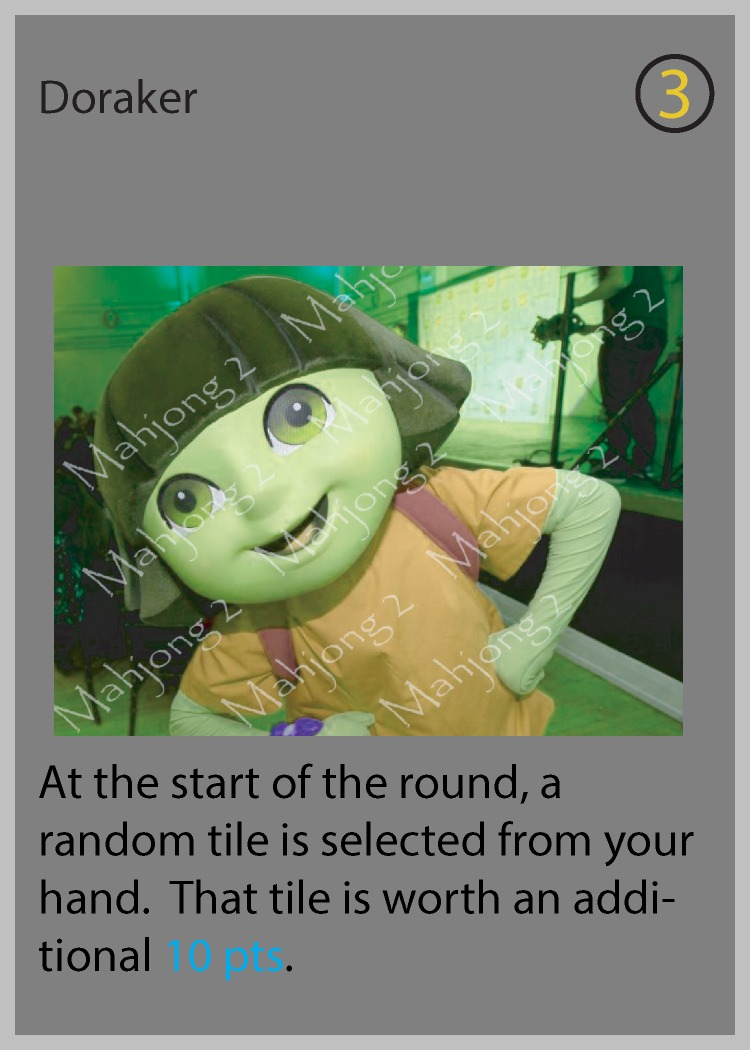
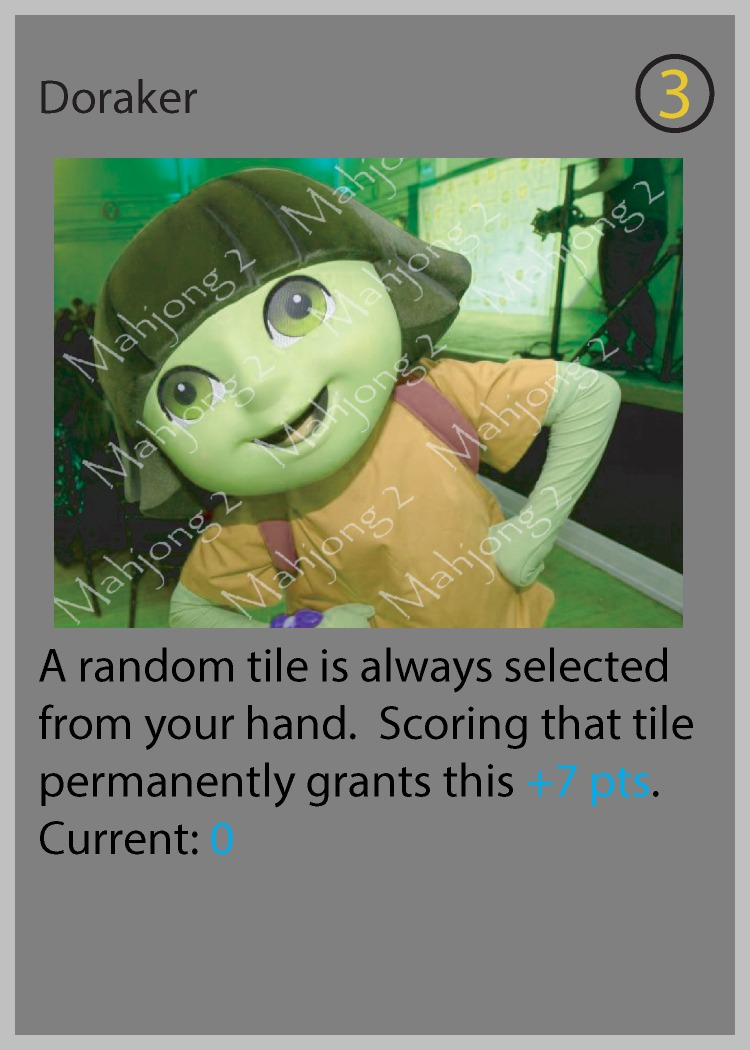
patch 0.14

diff --git a/mahjongkers.py b/mahjongkers.py
@@ -1073,8 +1073,8 @@ class Magellker(Mahjongker):
     name = "Magellker"
     description = "You can form a sequence with the winds. They are ordered dong (E) -> xi (S) -> nan (W) -> bei (N)"
     priority = 6 
-    cost = UNCOMMON_MAHJONGKER_COST
-    sell_value = UNCOMMON_MAHJONGKER_SELL_VALUE
+    cost = COMMON_MAHJONGKER_COST
+    sell_value = COMMON_MAHJONGKER_SELL_VALUE
     img_src = "/jongker/magellker.jpg"
 
     def eval_score(self, my_mahjongkers):
@@ -1239,7 +1239,7 @@ class Boomerangker(Mahjongker):
 # Doraker
 class Doraker(Mahjongker):
     name = "Doraker"
-    description = "At the start of the round, a random tile from your hand is selected.  This mahjongker permanently gains +15 pts if you score this tile this round. Currently: 0"
+    description = "A random tile is always selected from your hand. Scoring that tile permanently grants this +7 pts. Currently: 0"
     priority = 6
     cost = COMMON_MAHJONGKER_COST
     sell_value = COMMON_MAHJONGKER_SELL_VALUE
@@ -1713,7 +1713,7 @@ class Chairker(Mahjongker):
 # AngelInvesker
 class AngelInvesker(Mahjongker):
     name = "AngelInvesker"
-    description = "At the start of the round, choose a player to give $3 to. Any time that player earns money this round, you also gain $2."
+    description = "Each round, choose a player to give $2 to. Any time that player earns money this round, you also gain $1."
     priority = 6 
     cost = COMMON_MAHJONGKER_COST
     sell_value = COMMON_MAHJONGKER_SELL_VALUE
@@ -2929,7 +2929,7 @@ class HighNoonker(Mahjongker):
 # Stevenker
 class Stevenker(Mahjongker):
     name = "Stevenker"
-    description = "You may self reveal a valid quad of all even tiles of the same suit"
+    description = "You may self reveal a valid quad of of any combination of even tiles of the same suit"
     priority = 6 
     cost = COMMON_MAHJONGKER_COST
     sell_value = COMMON_MAHJONGKER_SELL_VALUE
@@ -2941,7 +2941,7 @@ class Stevenker(Mahjongker):
 # BigkerTheCat
 class BigkerTheCat(Mahjongker):
     name = "BigkerTheCat"
-    description = "You may self reveal a valid quad of all tiles > rank 5 of the same suit"
+    description = "You may self reveal a valid quad of any combination of tiles > rank 5 of the same suit"
     priority = 6 
     cost = COMMON_MAHJONGKER_COST
     sell_value = COMMON_MAHJONGKER_SELL_VALUE
@@ -3056,6 +3056,114 @@ class Uniqler(Mahjongker):
                     unique_tiles.append(tile)
         return (len(unique_tiles) * 10, 0)
 
+# Loanker
+class Loanker(Mahjongker):
+    name = "Loanker"
+    description = "Immediately get 13 dollars. Every time you would gain money, gain $1 less. You cannot remove this mahjongker."
+    priority = 6 
+    cost = COMMON_MAHJONGKER_COST
+    sell_value = COMMON_MAHJONGKER_SELL_VALUE
+    img_src = "/jongker/loanker.jpg"
+
+    def eval_score(self, my_mahjongkers):
+        return (0, 0)
+
+# MusicalChairker
+class MusicalChairker(Mahjongker):
+    name = "MusicalChairker"
+    description = "When you score another player's seat wind, take $3 from them."
+    priority = 6 
+    cost = COMMON_MAHJONGKER_COST
+    sell_value = COMMON_MAHJONGKER_SELL_VALUE
+    img_src = "/jongker/musicalchairker.jpg"
+
+    def eval_score(self, my_mahjongkers):
+        return (0, 0)
+
+# Worshipker
+class Worshipker(Mahjongker):
+    name = "Worshipker"
+    description = "Honor tiles are worth 0 pts. In your scored hand, for each honor meld, score your other melds again."
+    priority = 5 
+    cost = RARE_MAHJONGKER_COST
+    sell_value = RARE_MAHJONGKER_SELL_VALUE
+    img_src = "/jongker/worshipker.jpg"
+
+    def eval_score(self, my_mahjongkers, hand):
+        # rank_total = 0
+        # for meld in hand.melds:
+        #     for tile in meld.tiles:
+        #         if tile.suit != "wind" and tile.suit != "dragon" and tile.suit != "special":
+        #             rank_total += int(tile.rank)
+        #         else:
+        #             rank_total += 1
+        # if (rank_total >= 100):
+        #     return (100, 0)
+        # else:
+        return (0, 0)           
+
+# Thermomeker
+class Thermomeker(Mahjongker):
+    name = "Thermomeker"
+    description = "If you have scored at least 5 fever melds before you mahjong, +30 pts"
+    priority = 6 
+    cost = COMMON_MAHJONGKER_COST
+    sell_value = COMMON_MAHJONGKER_SELL_VALUE
+    img_src = "/jongker/thermomeker.jpg"
+
+    def eval_score(self, my_mahjongkers):
+        return (0, 0)
+
+# Suitker
+class Suitker(Mahjongker):
+    name = "Suitker"
+    description = "Gain a free Re: Suitbaru at the start of each of your turns.  If your scored hand has a common suit, gain +120 pts."
+    priority = 5 
+    cost = RARE_MAHJONGKER_COST
+    sell_value = RARE_MAHJONGKER_SELL_VALUE
+    img_src = "/jongker/suitker.jpg"
+
+    def eval_score(self, my_mahjongkers, hand):
+        if hand.is_flush:
+            return (120, 0)
+        return (0, 0)
+
+# Mimicgker
+class Mimicgker(Mahjongker):
+    name = "Mimicgker"
+    description = "Round start: choose a player. When you or that player use an item, the other player may also use that item."
+    priority = 6 
+    cost = UNCOMMON_MAHJONGKER_COST
+    sell_value = UNCOMMON_MAHJONGKER_SELL_VALUE
+    img_src = "/jongker/mimicgker.jpg"
+
+    def eval_score(self, my_mahjongkers):
+        return (0, 0)
+
+# Reuseker
+class Reuseker(Mahjongker):
+    name = "Reuseker"
+    description = "When you lock in a meld, create a copy of one of the meld's tiles."
+    priority = 6 
+    cost = COMMON_MAHJONGKER_COST
+    sell_value = COMMON_MAHJONGKER_SELL_VALUE
+    img_src = "/jongker/reuseker.jpg"
+
+    def eval_score(self, my_mahjongkers):
+        return (0, 0)
+
+# Reduceker
+class Reduceker(Mahjongker):
+    name = "Reduceker"
+    description = "When you create a fever meld, you may keep one of the meld's tiles."
+    priority = 6 
+    cost = COMMON_MAHJONGKER_COST
+    sell_value = COMMON_MAHJONGKER_SELL_VALUE
+    img_src = "/jongker/reduceker.jpg"
+
+    def eval_score(self, my_mahjongkers):
+        return (0, 0)
+
 # --------------------------------------------------------------------------------------
 # MAHJONGKER LIST
 # --------------------------------------------------------------------------------------
@@ -3115,7 +3223,7 @@ all_mahjongkers_list.append(Compensaker())
 all_mahjongkers_list.append(Gronkowsker())
 all_mahjongkers_list.append(Dumpsker())
 all_mahjongkers_list.append(Copycatker())
-all_mahjongkers_list.append(Boomerangker())
+# all_mahjongkers_list.append(Boomerangker())
 all_mahjongkers_list.append(Doraker())
 all_mahjongkers_list.append(AllforOneker())
 all_mahjongkers_list.append(OneforAllker())
@@ -3156,7 +3264,7 @@ all_mahjongkers_list.append(AngelInvesker())
 all_mahjongkers_list.append(Huntker())
 # all_mahjongkers_list.append(Gourmetker())
 # all_mahjongkers_list.append(Specialker())
-all_mahjongkers_list.append(Spoilker())
+# all_mahjongkers_list.append(Spoilker())
 all_mahjongkers_list.append(Harbingker())
 all_mahjongkers_list.append(GoGoGaker())
 all_mahjongkers_list.append(DejaVuker())
@@ -3241,6 +3349,13 @@ all_mahjongkers_list.append(TheHundredker())
 all_mahjongkers_list.append(Obelisker())
 all_mahjongkers_list.append(Reservaker())
 all_mahjongkers_list.append(Uniqler())
+all_mahjongkers_list.append(Loanker())
+all_mahjongkers_list.append(MusicalChairker())
+all_mahjongkers_list.append(Worshipker())
+all_mahjongkers_list.append(Thermomeker())
+all_mahjongkers_list.append(Suitker())
+all_mahjongkers_list.append(Reuseker())
+all_mahjongkers_list.append(Reduceker())
 
 # --------------------------------------------------------------------------------------
 # MAHJONGKER DICT
@@ -3301,7 +3416,7 @@ all_mahjongkers_dict["compensaker"] = Compensaker()
 all_mahjongkers_dict["gronkowsker"] = Gronkowsker()
 all_mahjongkers_dict["dumpsker"] = Dumpsker()
 all_mahjongkers_dict["copycatker"] = Copycatker()
-all_mahjongkers_dict["boomerangker"] = Boomerangker()
+# all_mahjongkers_dict["boomerangker"] = Boomerangker()
 all_mahjongkers_dict["doraker"] = Doraker()
 all_mahjongkers_dict["allforoneker"] = AllforOneker()
 all_mahjongkers_dict["oneforallker"] = OneforAllker()
@@ -3342,7 +3457,7 @@ all_mahjongkers_dict["angelinvesker"] = AngelInvesker()
 all_mahjongkers_dict["huntker"] = Huntker()
 # all_mahjongkers_dict["gourmetker"] = Gourmetker()
 # all_mahjongkers_dict["specialker"] = Specialker()
-all_mahjongkers_dict["spoilker"] = Spoilker()
+# all_mahjongkers_dict["spoilker"] = Spoilker()
 all_mahjongkers_dict["harbingker"] = Harbingker()
 all_mahjongkers_dict["gogogaker"] = GoGoGaker()
 all_mahjongkers_dict["dejavuker"] = DejaVuker()
@@ -3427,7 +3542,13 @@ all_mahjongkers_dict["thehundredker"] = TheHundredker()
 all_mahjongkers_dict["obelisker"] = Obelisker()
 all_mahjongkers_dict["reservaker"] = Reservaker()
 all_mahjongkers_dict["uniqler"] = Uniqler()
-
+all_mahjongkers_dict["loanker"] = Loanker()
+all_mahjongkers_dict["musicalchairker"] = MusicalChairker()
+all_mahjongkers_dict["worshipker"] = Worshipker()
+all_mahjongkers_dict["thermomeker"] = Thermomeker()
+all_mahjongkers_dict["suitker"] = Suitker()
+all_mahjongkers_dict["reuseker"] = Reuseker()
+all_mahjongkers_dict["reduceker"] = Reduceker()
 
 # ----------------------------------------------
 
@@ -3526,3 +3647,5 @@ initial_mahjongkers_list.append(WageGapker())
 initial_mahjongkers_list.append(Phoenixker())
 initial_mahjongkers_list.append(Obelisker())
 initial_mahjongkers_list.append(Reservaker())
+initial_mahjongkers_list.append(MusicalChairker())
+initial_mahjongkers_list.append(Thermomeker())

diff --git a/main.py b/main.py
@@ -969,7 +969,7 @@ def main(page: ft.Page):
             if mahjongker.name == "Doraker":
                 doraker = mahjongker
                 break
-        doraker.point_value = doraker.point_value + 15
+        doraker.point_value = doraker.point_value + 7
         doraker_text.value = f"Doraker value: {doraker.point_value}"
         page.update()
 
@@ -980,7 +980,7 @@ def main(page: ft.Page):
             if mahjongker.name == "Doraker":
                 doraker = mahjongker
                 break
-        doraker.point_value = max(0, doraker.point_value - 15)
+        doraker.point_value = max(0, doraker.point_value - 7)
         doraker_text.value = f"Doraker value: {doraker.point_value}"
         page.update()
 
@@ -4891,13 +4891,13 @@ def main(page: ft.Page):
                 # trigram_info_column,
                 # trigram_pack_button,
                 # ft.Divider(),
-                ft.Row([
-                    ft.Text("Hand Size Upgrade (+1)", size=20, color=ft.colors.WHITE),
-                    ]),
-                ft.Row([
-                    hand_size_upgrade_button
-                    ]),
-                ft.Divider(),
+                # ft.Row([
+                #     ft.Text("Hand Size Upgrade (+1)", size=20, color=ft.colors.WHITE),
+                #     ]),
+                # ft.Row([
+                #     hand_size_upgrade_button
+                #     ]),
+                # ft.Divider(),
                 # ft.Row([
                 #     ft.Text("Hand Type Upgrades", size=20, color=ft.colors.WHITE),
                 #     ]),
